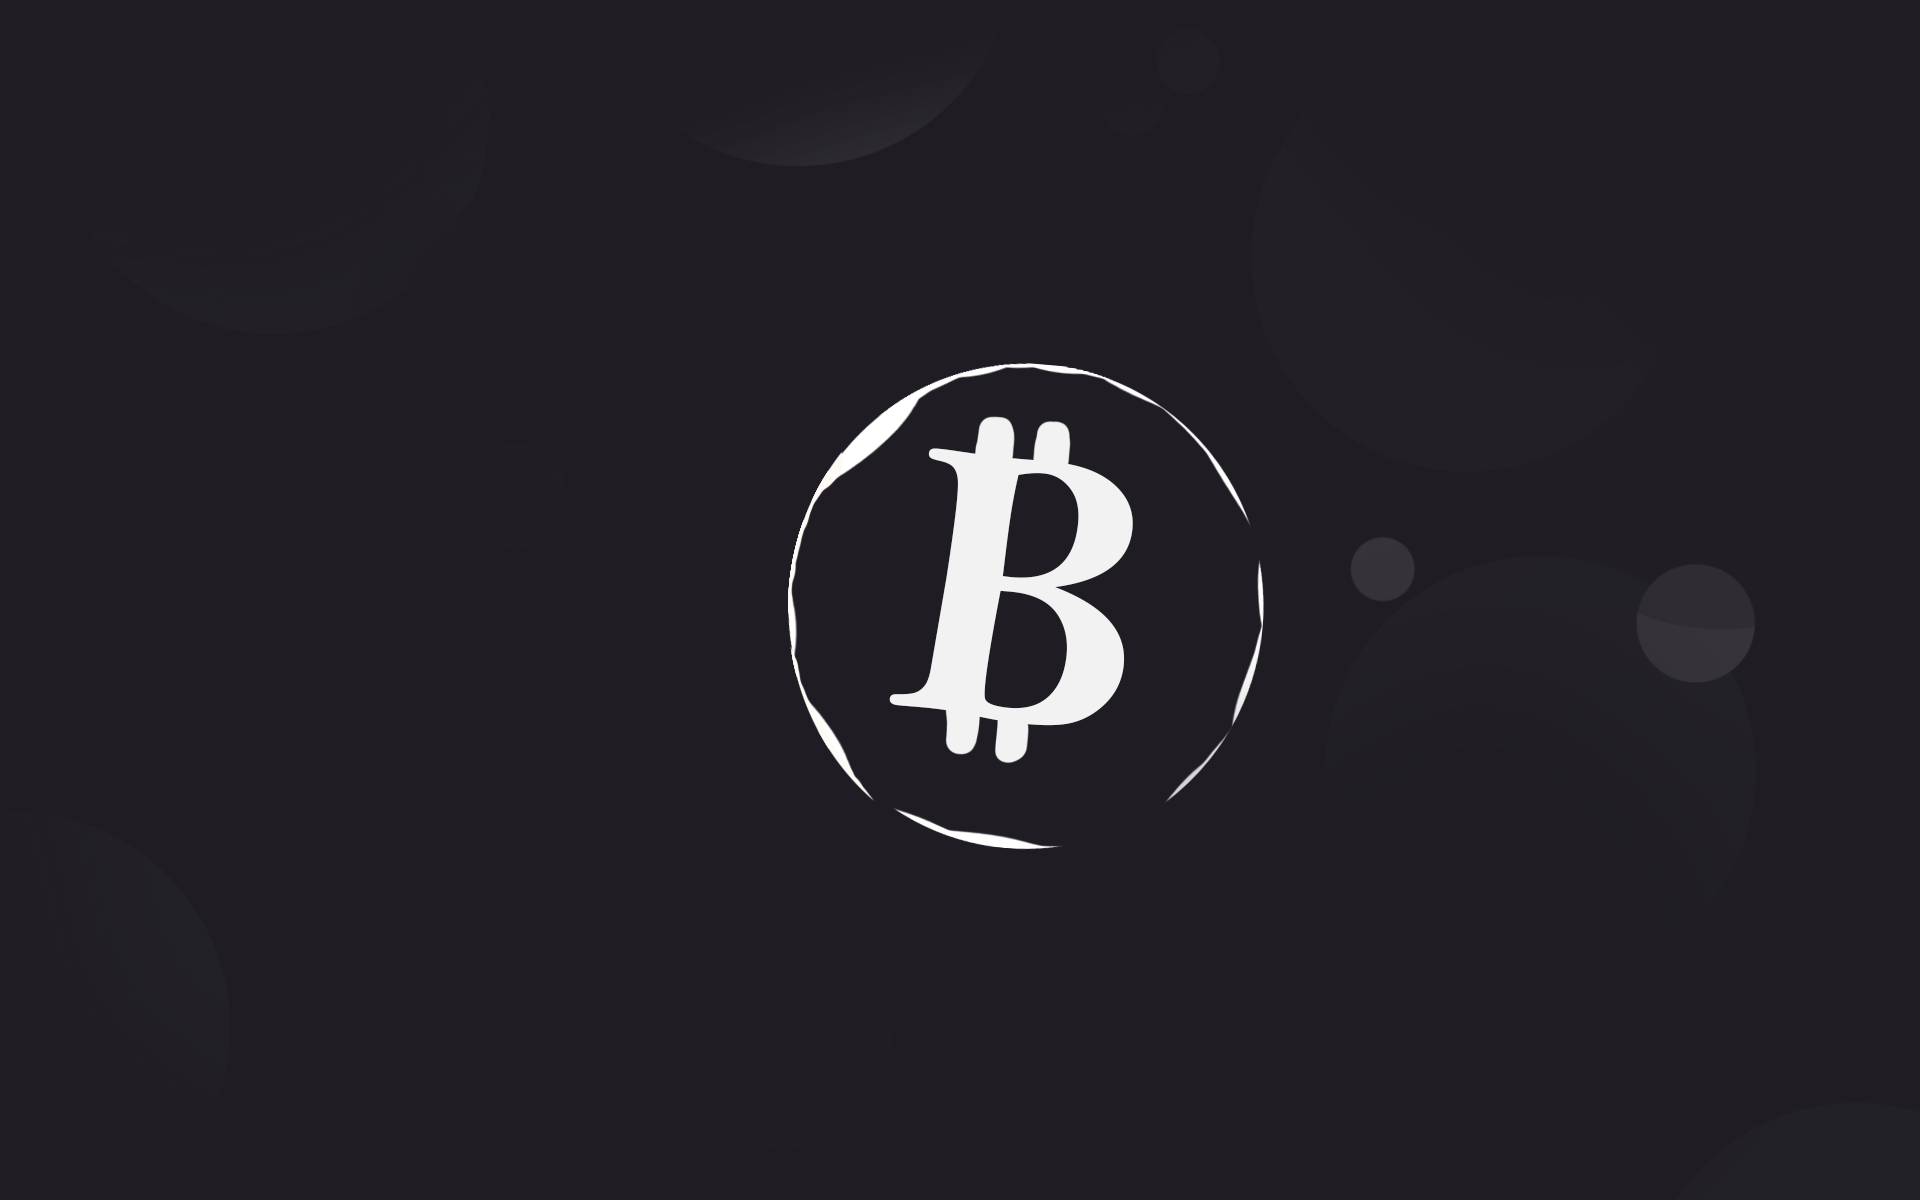
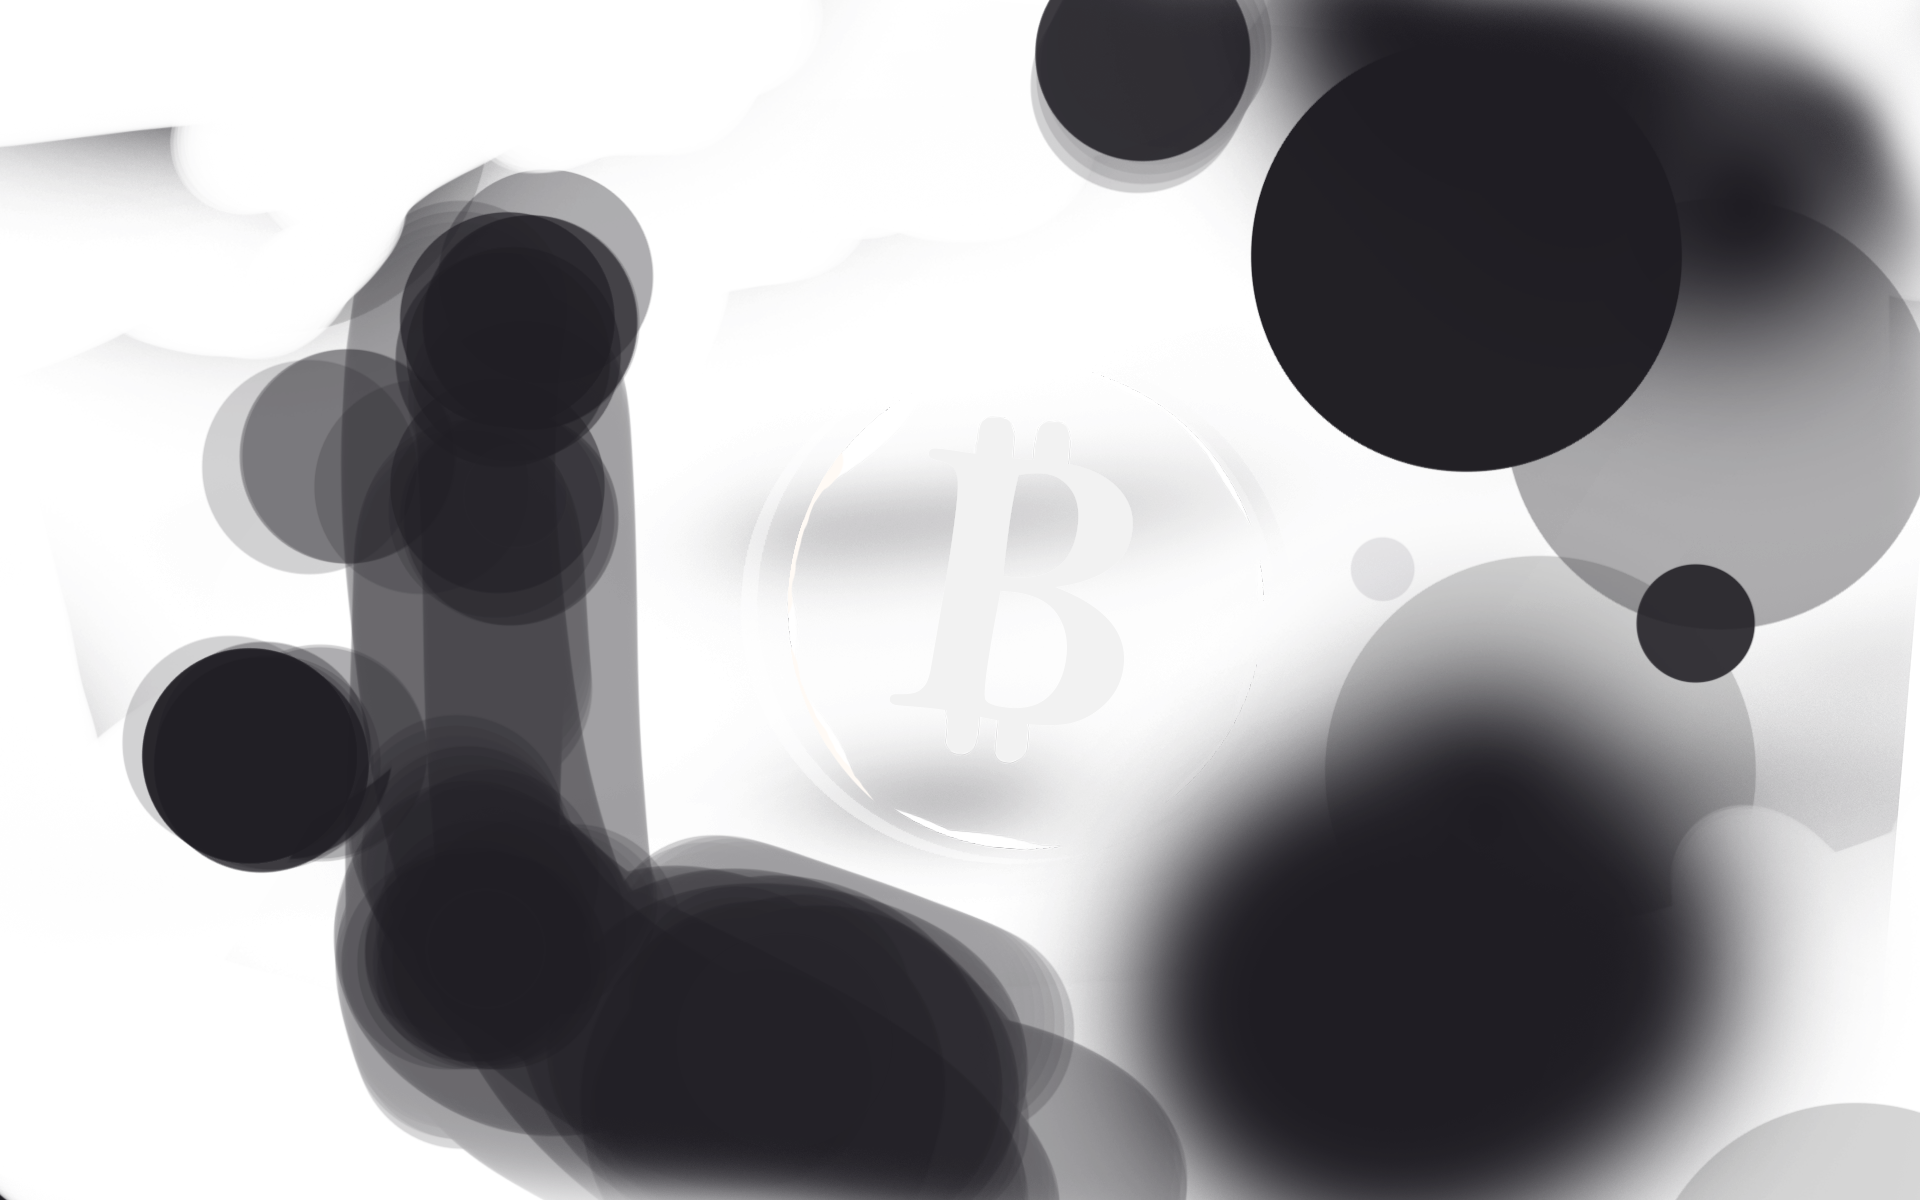
.

diff --git a/src/components/Nav.jsx b/src/components/Nav.jsx
@@ -8,14 +8,8 @@ import AccordionToggle from './AccordionToggle';
 const Nav = () => {
     const img =  <img src={logo} alt="btc nav" className="logo" />
 
-    const [toggleMenu, setToggleMenu] = useState(false)
     const [screenWidth, setScreenWidth] = useState(window.innerWidth)
     
-  
-    const toggleNav = () => {
-      setToggleMenu(!toggleMenu)
-    }
-  
     useEffect(() => {
         
       const changeWidth = () => {
@@ -30,24 +24,13 @@ const Nav = () => {
   
     }, [])
 
-    const imgDisplay = (img) =>{
-        return(
-            <>
-                { (toggleMenu ) > false ?  !img  :  img } 
-             </>
-        )
-    }
-    
-
     return (  
-
-        
-        
+      
         <nav>   
            
-            <>{imgDisplay(img)}</>
+            <>{img}</>
                     
-                {(toggleMenu || screenWidth > 900) && (
+                {( screenWidth > 900) && (
                         <ul className="nav-links">
                             <Link to='/components/Main'>
                                 <li>Main</li>
@@ -59,19 +42,16 @@ const Nav = () => {
                                 <li>Ethereum</li>
                             </Link> 
                             <Link to='/components/OtherCurrency'>
-                                <li>Other Currency</li>
+                                <li>Other Currencies</li>
                             </Link> 
                             
                         </ul>
                 )}
 
 
-                <div id="toggle">
+            
                 <AccordionToggle  />
-                </div>
-               
-          
-
+             
        
         </nav>
     )

diff --git a/src/App.js b/src/App.js
@@ -1,26 +1,26 @@
 import './App.css';
 import BTCmarket from './components/BTCmarket';
 import Ethereum from './components/Ethereum';
-// import FetchBtc from './components/FetchBtc';
-// import FetchBtc3 from './components/fetchBtc3';
 import Main from './components/Main';
 import Nav from './components/Nav';
 import OtherCurrency from './components/OtherCurrency'; 
-import {BrowserRouter as Router, Switch, Route} from 'react-router-dom';
 import Footer from './components/Footer';
 
-
+// for common hosts
+import {BrowserRouter as Router, Switch, Route} from 'react-router-dom';     
+// for github pages
+import { HashRouter } from "react-router-dom";     
  
 function App() {
   return (
 
-    <Router>
+    <HashRouter>
         <div className="App">
+
           <Nav />    
-              
               <Switch  className="swit">
-                <Route path="/" exact component={Main} />
-                <Route path="/components/Main"  component={Main} />
+                <Route exact path="/" exact component={Main} />
+                <Route path="/components/Main" exact component={Main} />
                 <Route path="/components/BTCmarket"  component={BTCmarket} />
                 <Route path="/components/Ethereum"  component={Ethereum} />
                 <Route path="/components/OtherCurrency"  component={OtherCurrency} />
@@ -30,7 +30,7 @@ function App() {
 
          </div>
 
-    </Router>
+    </HashRouter>
        
       
     

diff --git a/src/components/Nav.css b/src/components/Nav.css
@@ -39,8 +39,6 @@ nav{
 }
 
 
-
-
   /* ----responsive------ */
 
   @media screen and (max-width:900px) {
@@ -52,20 +50,8 @@ nav{
     display: inline-flex;
   }
 
-  #toggle{
-    display: inline;
-    align-content: flex-end;
-    margin-bottom: 0.2em;
-    margin-top: 0.2em;
-   
-  }
-    
 
   }
-
-
-
-
 
 
  @media screen and (max-width:420px) {
@@ -77,76 +63,3 @@ nav{
 
 }
 
-
-
-
-
-
-
- /* @media screen and (max-width:900px) {
-
-  
-
-  .logo{
-    align-content: flex-start;
-    max-height: 2em;
-    display: inline-flex;
-  }
-
-  .btn{
-    display: inline;
-    position: absolute;
-    right: 1em;
-    top: 0.4em;
-    display: inline;
-    cursor: pointer;
-    
-  }
-
- 
-  
-
-  .line{
-    background: rgb(255, 199, 108);
-    width: 2em;
-    height: 0.3em;
-    margin: 0.3em;
-    border-radius: 10px;
-    
-  }
-
-
-  .nav-links { 
-    flex-direction: column;
-    height: auto;
-    margin-bottom: 1em;
-    margin-top: 0.5em; 
-}
-
-
-  
-
-li:nth-child(1){
-    margin-bottom: 0em;
-    margin-top: 0em;
-    
-}
-
-li {
-    width: 100%;
-    border-bottom: 1px solid rgba(255, 255, 255, 0.555);
-    text-align: center;
-  
-    padding: 1em;
-    margin: 1em;
-    
-}
-
-
-
-
-}
-
-
-
- */

diff --git a/src/components/Main.css b/src/components/Main.css
@@ -19,6 +19,35 @@
     margin-left: 0em;
   }
   /* ------------------------------------- */
+  .back_background{
+    opacity: 0;
+    margin-top: 2em;
+    /* margin-left: auto;
+    margin-right: auto;
+    width: 50vw;
+    height: 40vh;
+    background-image: url(https://i.gifer.com/NTHO.gif);
+    background-position: center;
+    background-size: cover; */
+    transition: 5s;
+  }
+
+  .back_background-animated{
+    opacity:1 ;
+    margin-top: 2em;
+    margin-left: auto;
+    margin-right: auto;
+    width: 50vw;
+    height: 40vh;
+    /* background-image: url(./main.gif); */
+    background-image: url(./white-line.gif);
+    background-position: center;
+    background-size: cover;
+    transition: 4s;
+  }
+
+
+
 
   .presentation{
     display: grid;
@@ -28,10 +57,12 @@
     margin-right: auto;
     width: 50vw;
     height: 40vh;
-    background-image: url(./backGroundBtc.png);
+    background-image: url(./mainBtc.png);
     background-position: center;
     background-size: cover;
   }
+
+  
 
 /* --------------------------------------------- */
 

diff --git a/src/components/Main.jsx b/src/components/Main.jsx
@@ -4,12 +4,14 @@ import './Main.css'
 const Main = () => {
         const  [title, setTitle] = useState()
         const  [window, setWindow] = useState()
+        // const  [motionBack, setMotionBack] = useState()
         
 
     useEffect(() => {
 
         setTimeout(()=>{setTitle(true)}, 750);
         setTimeout(()=>{setWindow(true)}, 900);
+        // setTimeout(()=>{setMotionBack(true)}, 9000);
     }, [] )
 
     
@@ -17,11 +19,13 @@ const Main = () => {
     return (
         <div className="main">
             <h1 className={title ? "animated-title" : "title"}>Decentralized money</h1>
-
-            <div className="presentation">
+        <div className={window ? "back_background-animated" : "back:background"}>
+              <div className="presentation">
                 <div className={window ? "animated-window-one" : "window-one"}></div>
                 <div className={window ? "animated-window-two" : "window-two"}> </div>
             </div>
+        </div>
+            
         
         </div>
     )

diff --git a/src/components/Footer.jsx b/src/components/Footer.jsx
@@ -26,8 +26,8 @@ const Footer = () => {
                      <div className="Redes">
                            Networks & Music
                            <p>
-                               <a href="https://github.com/criaturaimaginaria" target="_BLANK"> GitHub </a> <br></br>
-                               <a href="https://www.youtube.com/channel/UCSJQMZALjc4pqR5FTnsn8TA" target="_BLANK"> YouTube </a>    
+                               <a href="https://github.com/criaturaimaginaria" target="_BLANK" rel="noreferrer">  GitHub </a> <br></br>
+                               <a href="https://www.youtube.com/channel/UCSJQMZALjc4pqR5FTnsn8TA" target="_BLANK" rel="noreferrer"> YouTube </a>    
                           </p>
                      </div>                          
                     

diff --git a/src/components/AccordionToggle.jsx b/src/components/AccordionToggle.jsx
@@ -10,7 +10,7 @@ export default function AccordionToggle() {
     const refHeight = useRef()
 
     useEffect(() => {
-        console.log(refHeight);
+        // console.log(refHeight);
         setHeightEl(`${refHeight.current.scrollHeight}px`)
     }, [])
 
@@ -49,7 +49,7 @@ export default function AccordionToggle() {
                         <p>Ethereum</p>
                     </Link> 
                     <Link to='/components/OtherCurrency' className="link">
-                        <p>Other Currency</p>
+                        <p>Other Currencies</p>
                     </Link> 
                     
             

diff --git a/src/components/OtherCurrency.css b/src/components/OtherCurrency.css
@@ -25,14 +25,14 @@
 
   table{
     border-collapse: collapse;
-    font-size: 20px;
-    font-size: 1.2em;
+    /* font-size: 20px; */
+    font-size: 1.1em;
     font-weight: normal;
     background-color: #26262e;
     color: rgb(204, 204, 204);
     width: 70vw;
-    margin-left: 15vw;
-    margin-right: 15vw;
+    margin-left: 11vw;
+    margin-right: 11vw;
     
   }
 

diff --git a/src/components/Footer.css b/src/components/Footer.css
@@ -6,7 +6,7 @@ footer{
 
     position: absolute;
     bottom: 0;
-    width: 100%;
+    width: 100vw;
     min-height: 18vh;
  
    /* font-size: 1.40em; */
